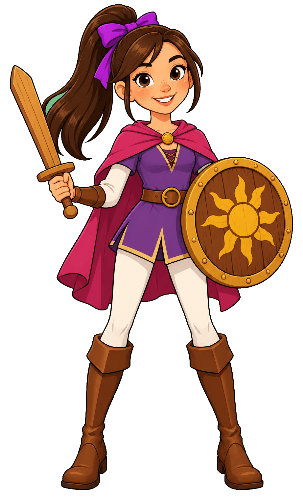
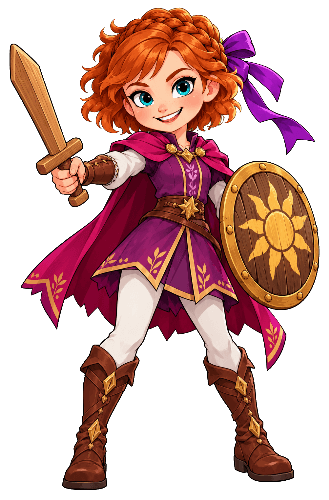
wordwarriors/113_promote_anna_bluerilla: Promote good Anna and Bluerilla, and face-card rounds for both
Squashed by conductor from conductor/113_promote_anna_bluerilla (2 commit(s)):
- Promote good Anna (pick 1) and Bluerilla (pick 5); Bluerilla is a living gorilla, not a robot
- Face-card round for good Anna and Bluerilla (picker art_alts_113_faces); CLAUDE.md: an art round never asks which candidate to promote

diff --git a/content/art/prompts.ts b/content/art/prompts.ts
@@ -64,7 +64,7 @@ const BANK_056 = ['egg', 'bell', 'doll', 'tap', 'glass', 'sink', 'king', 'ring',
  */
 // Item 111: Julia's outfits beside the new allies and Seraphina's pink dragon, no green of their own.
 const ART_111 = ['keeper', 'snow', 'explorer'].flatMap((o) => [`char_julia_${o}`, `face_julia_${o}`]).concat('minion_pink_dragon');
-const NO_GREEN = new Set([...ART_111, ...BANK_037, ...BANK_040, ...BANK_054, ...BANK_056, ...FAMILY_ART, ...TIAMAT_ART, ...ITEM_025, 'char_julia_chef', 'face_julia_chef', 'prop_silver_sword', ...GLOWING_ITEMS, 'item_bubble_bath', 'item_cleanup_van', 'char_rilla_evil', 'char_rilla_good', 'char_elsa_good', 'pic_mice', 'pic_net', 'prop_magic_circle', 'prop_ice_block', 'prop_word_machine', 'prop_machine_tile', 'prop_rune_altar', 'prop_rune_stone', ...ENDING_PROPS, ...SCAR_ART, ...FIGHT_PROPS]);
+const NO_GREEN = new Set([...ART_111, ...BANK_037, ...BANK_040, ...BANK_054, ...BANK_056, ...FAMILY_ART, ...TIAMAT_ART, ...ITEM_025, 'char_julia_chef', 'face_julia_chef', 'prop_silver_sword', ...GLOWING_ITEMS, 'item_bubble_bath', 'item_cleanup_van', 'char_rilla_evil', 'char_rilla_good', 'face_rilla', 'char_elsa_good', 'pic_mice', 'pic_net', 'prop_magic_circle', 'prop_ice_block', 'prop_word_machine', 'prop_machine_tile', 'prop_rune_altar', 'prop_rune_stone', ...ENDING_PROPS, ...SCAR_ART, ...FIGHT_PROPS]);
 
 /**
  * Sprites in dark green of their own (item 049): keying takes out only the
@@ -145,7 +145,7 @@ export const PICK_NOTES: Record<string, string> = {
   prop_fight_finish_flag: 'The sky race\'s finish line (item 031), swept in at the end of each race. `current` is candidate 1, Matt\'s pick (item 034): the slimmer gold posts with jewelled tops. 2 was item 031\'s promotion; `0` is the painted placeholder.',
   prop_fight_trophy: 'Over the winner of a race or a cook-off (item 031). `current` is candidate 3, Matt\'s pick (item 034): the ornate cup with a gold filigree crest round its ruby. 1 was item 031\'s promotion; `0` is the painted placeholder.',
   prop_fight_cook_station: 'Each side\'s station in the cook-off (item 031); the dish is stacked on its counter top. `current` is candidate 2, promoted by item 031: the clearest counter top. `0` is the painted placeholder.',
-  char_rilla_good: "Bluerilla (item 110): Rilla's good side drawn from Julia's plush gorilla (Matt's photo attached to each prompt). `current` is the old pastel-blue robot gorilla. Brief `110_bluerilla_plush` keeps the toy's soft stitched look, arms open for a hug; `110_bluerilla_furry` makes him a living shaggy gorilla, waving.",
+  face_rilla: "Bluerilla's face card (item 113), drawn with his promoted full body attached (`art:alts --ref=art-originals/char_rilla_good.png`) so face and fur match it. `current` is the old pastel-blue robot's. Only the good side shows a face card (`Portrait`: none for an evil speaker), so EvilRilla needs none of his own.",
   char_scar_good: "Scar's redesign (items 028/030): a tiny gold mech, a little shorter than Julia. `current` is candidate 2, promoted by item 030 and kept by Matt (item 034): the biggest head and shortest legs (the smallest-reading), and a smiling visor. `0` is the old design.",
   char_scar_evil: "`current` is candidate 1, Matt's pick (item 034): a round black helmet with smoking exhaust stacks, a scowling red visor, blaster thrust forward and fist clenched. 3 was item 030's promotion; `0` is the old design.",
   face_scar: "`current` is candidate 2, Matt's pick (item 034): a laughing visor with his smiling mouth showing beneath it, blue jets behind. 4 was item 030's promotion; `0` is the old design.",
@@ -188,7 +188,7 @@ export const PICK_NOTES: Record<string, string> = {
   char_ellie_good: "`current` is candidate 0, the original bubble-wand Ellie, Matt's pick (item 016); she fights with bubbles and one sword move, and the game draws her swords round her when she uses it. 1 to 3 are item 009's bubble-wand candidates; 4 to 6 (item 014) summon silver swords.",
   char_julia_chef: 'Julia in her chef form (content/battle/forms.ts): every scene after she wakes uses it when Dada Jason is the ally. `current` is candidate 3, promoted by item 012 (closest face and fringe to her other art, pink shoes like hers).',
   face_julia_chef: "New id (item 016): chef Julia's name-free face card, the picture for reading JULIA in a chef episode. `current` is candidate 2, promoted by item 016 (hat, fringe and smile closest to char_julia_chef); 1 and 3 are as good, with a taller hat. `0` is the painted placeholder.",
-  char_anna_good: "Good Anna redrawn as Evil Anna's copper-curls design turned good (item 112; Evil Anna is final, item 109): each candidate is drawn with Evil Anna's art attached (`art:alts --ref`), so the face, hair and build match hers. `current` is item 009's dark-ponytail design. A pick writes its brief into her roster look, and her face card follows in its own round.",
+  face_anna: "Good Anna's face card redrawn to match her promoted copper-curls full body (item 113; drawn with it attached, `art:alts --ref=art-originals/char_anna_good.png`). `current` is item 009's dark-ponytail card; `0` the oldest original, from before item 009.",
   room_bedroom_julia: 'Redrawn with no loose toys of its own: the first one painted a teddy and a rocket that doubled the toys the game puts on the floor.',
   decal_rilla_footprint: 'Redrawn as one giant robot-gorilla footprint: the earlier try still read as bare human feet.',
   prop_word_machine: "The word machine (item 026): the game puts the picture in its round window and draws its own letter panel over the blank lower panel. `current` is candidate 3, Matt's pick (item 032): a round glass dome over a cream panel, with a crank on the side; `WINDOW` / `PANEL` in src/scenes/WordMachine.ts are fitted to it (fractions of the image), so a different pick needs them refitted. 2 is item 026's promotion; 0 is the painted placeholder.",
@@ -583,8 +583,9 @@ const PICTURES: Record<string, string> = {
 const HAND: Record<string, string> = {
   char_rilla_evil:
     'EvilRilla, the villain: a giant, menacing-but-silly gorilla robot, chrome and red armour plates, huge rocket fists, glowing red eyes, a bandolier of banana peels across the chest. Mischievous grin rather than frightening. Standing, facing the viewer.',
+  // Item 113: Matt's pick 5 from item 110's round (brief 110_bluerilla_furry), drawn with Julia's plush attached (REFS).
   char_rilla_good:
-    'Rilla, the good version: the same giant gorilla robot, friendly and gentle, pastel blue armour plates, soft glowing eyes and a big smile, arms open wide for a hug. Standing, facing the viewer.',
+    "Bluerilla, the good version: a big, gentle cartoon gorilla hero modelled on Julia's plush gorilla, a kind, huggable giant. Shaggy deep navy-blue fur all over, a large pale-blue face with a big friendly rounded muzzle and a happy smile, small dark kind eyes, a big round pale-blue chest and belly patch, very long navy arms with big pale-blue hands, and pale-blue feet. Round and chunky like the toy, all soft curves, NOT a robot: no armour, no metal, no glowing eyes. Standing tall, facing the viewer, one big hand waving hello and a warm grin.",
   char_elsa_good:
     // Four wordings with pale hair and an icy-blue snowflake gown were refused by
     // the image tool's safety system (2026-10-18), most likely as too near the film
@@ -634,7 +635,7 @@ const HAND: Record<string, string> = {
     'Wind-up Mice: a round open tin box with three cute grey clockwork toy mice spilling out of it, each with a little silver wind-up key in its back, pink ears and curly tails, a few golden sparkles around them.',
 };
 
-const EMPTY_HANDED_FACES = new Set(['face_ellie', 'face_anna']);
+const EMPTY_HANDED_FACES = new Set(['face_ellie', 'face_anna', 'face_rilla']);
 
 const strip = (s: string) => s.replace(/,?\s*transparent background\.?/gi, '.').replace(/\.\s*\./g, '.').trim();
 

diff --git a/content/battle/roster.ts b/content/battle/roster.ts
@@ -616,10 +616,11 @@ export const ROSTER: CharacterSpec[] = [
     id: 'anna',
     description: 'The ice sorceress\'s brave little sister: a sword-and-shield adventurer who never gives up.',
     arena: 'ice',
-    // Split look (Matt's picks, item 011): good Anna and her face card are the
-    // item 009 redesign (dark ponytail, plum and magenta).
+    // Good Anna is Evil Anna's copper curls turned good (Matt's pick, item 112's
+    // round, promoted by item 113): brief 112_good_anna_plum. Her face card
+    // still shows item 009's dark ponytail until item 113's face round is picked.
     good: {
-      displayName: 'Anna', trail: { tint: [0xffb703, 0xe63946], shape: 'spark' }, look: 'a tall, sporty young adventurer of original design with long straight dark-brown hair in one high swinging ponytail tied with a big purple ribbon, a few freckles, a plum-purple tunic with a short magenta cape, white leggings and tall brown boots, a round wooden shield with a golden sun painted on it and a wooden practice sword',
+      displayName: 'Anna', trail: { tint: [0xffb703, 0xe63946], shape: 'spark' }, look: 'a freckled young adventurer of original design with a short, curly copper bob and a braid across the top of her head, tied with a big purple ribbon, bright blue eyes and warm peachy skin with rosy cheeks, a big brave happy grin, a plum-purple tunic with a brown belt, a short magenta cape, white leggings and tall brown boots, a round wooden shield with a golden sun painted on it and a wooden practice sword',
       palette: [0xe63946, 0x2a9d8f], glyph: '🛡', style: 'twirl', speed: 230, size: 1, hp: 110,
       abilities: [
         ab('shield_bash', 'Shield Bash', 'dash', 4, 0xe63946, 2, { shout: true, words: ['bam', 'ram', 'run'] }),
@@ -1241,29 +1242,34 @@ export const ROSTER: CharacterSpec[] = [
   },
   {
     id: 'rilla',
-    description: 'A giant gorilla robot: as a friend all bananas and big hugs, as a villain all rocket fists and an appetite for cars.',
+    // Item 113 (Matt): the good side is Bluerilla, Julia's plush gorilla come
+    // to life, a big kind living gorilla (Matt's pick from item 110's round,
+    // brief 110_bluerilla_furry). The villain stays EvilRilla, the robot, and
+    // is RILLA by his bare name (`bareName`).
+    description: 'Bluerilla, Julia\'s big blue plush gorilla come to life: as a friend all bananas and big furry hugs. As a villain he is EvilRilla, a gorilla robot all rocket fists and an appetite for cars.',
     arena: 'street',
     good: {
-      displayName: 'Rilla', trail: { tint: [0xffe14a, 0x8a6a4a], shape: 'square' }, look: 'a friendly, gentle giant gorilla robot with pastel blue armour plates, soft glowing eyes and a big smile, arms open wide for a hug',
-      palette: [0x8a6a4a, 0xffe14a], glyph: '🦍', style: 'stomp', speed: 110, size: 1.4, hp: 160,
+      displayName: 'Bluerilla', trail: { tint: [0xffe14a, 0x2a4aa8], shape: 'square' }, look: 'a big, gentle cartoon gorilla modelled on a plush toy, a kind, huggable giant: shaggy deep navy-blue fur all over, a large pale-blue face with a big friendly rounded muzzle and a happy smile, small dark kind eyes, a big round pale-blue chest and belly patch, very long navy arms with big pale-blue hands, and pale-blue feet, round and chunky like the toy, all soft curves, NOT a robot: no armour, no metal, no glowing eyes, waving hello with one big hand',
+      palette: [0x1f3a8a, 0xa8d0ff], glyph: '🦍', style: 'stomp', speed: 110, size: 1.4, hp: 160,
       abilities: [
         ab('banana_toss', 'Banana Toss', 'bolt', 2.4, 0xffe14a, 1, { count: 3, glyph: '🍌', words: ['pop', 'top'] }),
-        ab('rocket_punch', 'Rocket Punch', 'bolt', 3, 0xff6a3a, 2, { glyph: '🚀', homing: true, shout: true, words: ['pow', 'jet'] }),
+        ab('vine_swing', 'Vine Swing', 'dash', 4, 0x3a9a4a, 2, { shout: true, words: ['jump', 'run'] }),
         ab('chest_drum', 'Gorilla Thump', 'slam', 6, 0x8a6a4a, 3, { shout: true, words: ['bam', 'big'] }),
         ab('gorilla_hug', 'Gorilla Hug', 'heal', 10, 0xffe14a, 1, { words: ['hug', 'tug'] }),
       ],
-      ultimate: ult('banana_bonanza', 'Banana Bonanza', 'rain',0xffe14a, 3, { count: 32, glyph: '🍌', color2: 0x8a6a4a }),
+      ultimate: ult('banana_bonanza', 'Banana Bonanza', 'rain',0xffe14a, 3, { count: 32, glyph: '🍌', color2: 0x2a4aa8 }),
       taunts: [
         { key: 'hugs', text: 'Hugs for everyone!' },
         { key: 'bananas', text: 'Here come the bananas!' },
         { key: 'gentle', text: 'I am a gentle giant!' },
         { key: 'power', text: 'Gorilla power!' },
+        { key: 'fluffy', text: 'Soft and fluffy, and super strong!' },
         { key: 'snack', text: 'Who wants a banana?' },
         { key: 'stomp', text: 'Watch my giant feet!' },
       ],
     },
     evil: {
-      displayName: 'EvilRilla', trail: { tint: [0xff3a1a, 0x3a2a1a], shape: 'smoke' }, look: 'a giant, menacing-but-silly gorilla robot with chrome and red armour plates, huge rocket fists, glowing red eyes and a bandolier of banana peels across the chest',
+      displayName: 'EvilRilla', bareName: 'Rilla', trail: { tint: [0xff3a1a, 0x3a2a1a], shape: 'smoke' }, look: 'a giant, menacing-but-silly gorilla robot with chrome and red armour plates, huge rocket fists, glowing red eyes and a bandolier of banana peels across the chest',
       palette: [0x3a2a1a, 0xff3a1a], glyph: '🤖', style: 'stomp', speed: 70, size: 1.8, hp: 230,
       abilities: [
         ab('rocket_fists', 'Rocket Fists', 'bolt', 3, 0xff3a1a, 2, { count: 2, glyph: '🚀', homing: true }),
@@ -1284,13 +1290,13 @@ export const ROSTER: CharacterSpec[] = [
     reformed: {
       sorry: [
         { key: 'banana', text: 'Sorry, do you want a banana?' },
-        { key: 'car', text: 'Sorry, Rilla will not eat the car.' },
+        { key: 'car', text: 'Sorry, Bluerilla will not eat the car.' },
         { key: 'hungry', text: 'Sorry, so sorry, I was hungry!' },
       ],
       ending: [
         { key: 'hugs', text: 'I have gorilla hugs for everybody!' },
         { key: 'bananas', text: 'Bananas for the whole team!' },
-        { key: 'happy', text: 'Rilla is happy now!' },
+        { key: 'happy', text: 'Bluerilla is happy now!' },
       ],
     },
     counter: {
@@ -1650,6 +1656,11 @@ export const ROSTER: CharacterSpec[] = [
 ];
 
 export const CHARACTER_BY_ID: Record<string, CharacterSpec> = Object.fromEntries(ROSTER.map((c) => [c.id, c]));
+
+/** The villain's bare name, once known (item 038): `evil.bareName` where set, else the good side's name. */
+export function villainName(c: CharacterSpec): { displayName: string; sayName?: string } {
+  return c.evil.bareName ? { displayName: c.evil.bareName } : c.good;
+}
 
 /** Whose form `id` is: the person for a form (`dada_matt_lifter` → `dada_matt`), else `id` itself. */
 export function personOf(id: string): string {

diff --git a/content/phonics/sentences.ts b/content/phonics/sentences.ts
@@ -20,7 +20,7 @@
  * unit tests read it under Node.
  */
 
-import { CHARACTER_BY_ID, PERSONS, ROSTER, personOf } from '../battle/roster.js';
+import { CHARACTER_BY_ID, PERSONS, ROSTER, personOf, villainName } from '../battle/roster.js';
 import { sentenceLine } from '../voice/ids.js';
 import { THINGS } from './bank.js';
 import { EFFECT_BY_WORD, type WordEffect } from './effects.js';
@@ -198,10 +198,12 @@ function frameName(frame: Frame, fill: Fill): { slot: NameSlot; id: string } | n
 /**
  * A name as shown in a sentence: the bare character name in every slot (item
  * 038). The villain is still drawn evil; EVIL only made a long sentence longer
- * (JORMUNGANDR RUNS FROM THE FAN, not EVIL JORMUNGANDR ...).
+ * (JORMUNGANDR RUNS FROM THE FAN, not EVIL JORMUNGANDR ...). The villain slot
+ * reads `villainName` (RILLA, whose good side is BLUERILLA: item 113).
  */
-function nameFor(id: string): { show: string; say: string } {
-  const f = CHARACTER_BY_ID[id]!.good;
+function nameFor(id: string, slot: NameSlot): { show: string; say: string } {
+  const c = CHARACTER_BY_ID[id]!;
+  const f = slot === 'villain' ? villainName(c) : c.good;
   return { show: f.displayName, say: f.sayName ?? f.displayName };
 }
 
@@ -209,7 +211,7 @@ export function sentence(frameId: string, fill: Fill, key: string): Sentence {
   const frame = FRAME_BY_ID[frameId]!;
   const name = frameName(frame, fill);
   const text = frame.text
-    .replace(/\{(villain|helper|hero)\}/, name ? nameFor(name.id).show.toUpperCase() : '')
+    .replace(/\{(villain|helper|hero)\}/, name ? nameFor(name.id, name.slot).show.toUpperCase() : '')
     .replace('{x}', key.toUpperCase());
   // A form reads and sounds like its person (DADA MATT for every Matt), so it shares the person's prefix line.
   return { frame: frameId, tokens: text.split(/\s+/).filter(Boolean), key, prefixLine: sentenceLine(frameId, name ? personOf(name.id) : null) };
@@ -228,7 +230,7 @@ export function allPrefixes(): { id: string; text: string; say?: string }[] {
     const slot = slotOf(frame);
     const ids = slot ? PERSONS.map((c) => c.id) : [null];
     for (const id of ids) {
-      const name = slot && id ? nameFor(id) : null;
+      const name = slot && id ? nameFor(id, slot) : null;
       // Spoken in sentence case, trailing off where the key word will go.
       const show = words.map((w, i) => (w.startsWith('{') ? name!.show : i === 0 ? cap(w) : w.toLowerCase())).join(' ');
       const say = words.map((w, i) => (w.startsWith('{') ? name!.say : i === 0 ? cap(w) : w.toLowerCase())).join(' ');
@@ -245,7 +247,7 @@ export function allFrameTokens(): string[] {
     for (const w of frame.text.split(/\s+/)) {
       if (w === '{x}') continue;
       if (SLOTS.some((s) => w === `{${s}}`)) {
-        for (const c of ROSTER) for (const t of nameFor(c.id).show.split(/\s+/)) set.add(tokenWord(t));
+        for (const c of ROSTER) for (const s of SLOTS) for (const t of nameFor(c.id, s).show.split(/\s+/)) set.add(tokenWord(t));
       } else set.add(tokenWord(w));
     }
   }

diff --git a/tools/voice/compose.ts b/tools/voice/compose.ts
@@ -14,7 +14,7 @@
 
 import { writeFile } from 'node:fs/promises';
 
-import { CHARACTER_BY_ID, MOVE_WORDS, PERSONS, ROSTER, abilityCallout, personOf } from '../../content/battle/roster.js';
+import { CHARACTER_BY_ID, MOVE_WORDS, PERSONS, ROSTER, abilityCallout, personOf, villainName } from '../../content/battle/roster.js';
 import { STORIES, storyLines } from '../../content/battle/stories/index.js';
 import { ENDINGS } from '../../content/house/endings.js';
 import { HOME_QUEST, QUESTS } from '../../content/house/quests.js';
@@ -60,10 +60,13 @@ import { CHARGE_GESTURES, CORE_LINES, HERO_LINES, MOVE_LINES, NARRATOR_LINES, VI
 import { isMain, LINES_FILE } from '../shared.js';
 import type { LineSpec } from './types.js';
 
+/** What a name placeholder reads: shown and, where edge-tts needs it, spoken. */
+type Named = Pick<FighterSpec, 'displayName' | 'sayName'>;
+
 interface Fill {
-  hero?: FighterSpec;
-  villain?: FighterSpec;
-  helper?: FighterSpec;
+  hero?: Named;
+  villain?: Named;
+  helper?: Named;
   item?: string;
   itemSay?: string;
   word?: string;
@@ -111,7 +114,7 @@ function fill(t: Template, f: Fill): { text: string; say?: string } {
 function tokenForms(): Map<string, { show: string; say?: string }> {
   const forms = new Map<string, { show: string; say?: string }>();
   for (const c of ROSTER) {
-    for (const f of [c.good, c.evil]) {
+    for (const f of [c.good, c.evil, villainName(c)]) {
       const shown = f.displayName.split(/\s+/);
       // sayName has the same word count as displayName, so words pair by index.
       const said = f.sayName?.split(/\s+/);
@@ -294,7 +297,7 @@ export function composeLines(): LineSpec[] {
           id: narratorLine(n, villainKey(t.key, villain.id)),
           speaker: n,
           group: g,
-          ...fill(t, { villain: t.key === 'alarm_villain' ? villain.evil : villain.good, item: villain.counter.name, ...(villain.counter.sayName ? { itemSay: villain.counter.sayName } : {}) }),
+          ...fill(t, { villain: t.key === 'alarm_villain' ? villain.evil : villainName(villain), item: villain.counter.name, ...(villain.counter.sayName ? { itemSay: villain.counter.sayName } : {}) }),
         });
       }
     }

diff --git a/content/house/scenes.ts b/content/house/scenes.ts
@@ -337,15 +337,16 @@ export const HUB_SCENES: Record<string, HubStory[]> = {
   ],
   rilla: [
     S('🍌', [
-      'Rilla is strong, and Rilla likes to share, so here is my power banana!',
+      'Bluerilla is strong, and Bluerilla likes to share, so here is my power banana!',
       'Eat the banana, and you get a mighty power.',
       'Then thump your tummy, and shout...',
     ], SPOT('to get the power'), 'Now you are gorilla strong, let\'s look around!'),
-    S('🦾', [
-      'My robot arms are very strong, but my best trick is a word.',
-      'I am giving it to you, because you are my friend.',
+    // Item 113: Bluerilla is a living plush gorilla, not a robot.
+    S('💪', [
+      'My long furry arms are very strong, but my best trick is a word.',
+      'I am giving it to you, with a soft fluffy cuddle, because you are my friend.',
       'Put your fists up, and shout...',
-    ], SPOT('to get the trick'), 'Now you are strong like Rilla, let\'s look around!'),
+    ], SPOT('to get the trick'), 'Now you are strong like Bluerilla, let\'s look around!'),
   ],
 };
 

diff --git a/content/battle/types.ts b/content/battle/types.ts
@@ -125,6 +125,12 @@ export interface FighterSpec {
   displayName: string;
   /** For edge-tts, when the display name mispronounces. Same word count. */
   sayName?: string;
+  /**
+   * Evil side only: the villain's bare name (item 038's sentences and the
+   * narrator's villain lines), where it is not the good side's name (item 113:
+   * EvilRilla is RILLA, his good side Bluerilla). See `villainName`.
+   */
+  bareName?: string;
   /** One line for docs/art.md and the AI art prompt. */
   look: string;
   /** Card colours: main, accent. */

diff --git a/docs/art.md b/docs/art.md
@@ -27,7 +27,7 @@ Word pictures must contain no text or letters: the word is the reading answer.
 | `char_dada_jason_evil` | 200×250 | Evil Dada Jason: a fun, mischievous villain chef for a children's game, NOT scary: the same big, sturdy, round-faced dad as the good chef, warm light-brown skin, very short dark curly hair receding at the front, his black browline glasses, his own short dark goatee beard flecked with grey, a tiny hoop earring and a sly, cheeky grin. NO moustache, NO whiskers, NO twirly or curled facial hair: his own face, just as in the photo. He wears a black chef's jacket with purple buttons and purple piping, a black apron and a floppy dark-purple chef's hat: a black-and-purple palette with glowing purple accents, no green anywhere. He holds up a giant ladle dripping with glowing purple sauce, a few purple drips splashing. A clear, simple silhouette that still reads at small sprite size. Full body, facing the viewer, cheerful cartoon style for a 4-year-old, villain version: darker palette, mischievous rather than frightening. Transparent background. |
 | `char_elsa_good` | 200×250 | Elsa: a cheerful winter queen of original design: rosy cheeks and freckles, long pale silver hair, a flowing white-and-gold gown embroidered with golden snowflakes, a little golden crown and a fluffy white fur-trimmed cape, conjuring golden-white sparkles. Full body, facing the viewer, cheerful cartoon style for a 4-year-old. Transparent background. |
 | `char_elsa_evil` | 200×250 | Evil Elsa: a sulky frost witch of original design with a short spiky silver pixie cut and freckles, a tall jagged black-and-gold crown, a knee-length tunic of dark violet crystal plates over black leggings, black boots, a tattered gold-edged cape, holding a staff topped with a purple crystal. Full body, facing the viewer, cheerful cartoon style for a 4-year-old, villain version: darker palette, mischievous rather than frightening. Transparent background. |
-| `char_anna_good` | 200×250 | Anna: a tall, sporty young adventurer of original design with long straight dark-brown hair in one high swinging ponytail tied with a big purple ribbon, a few freckles, a plum-purple tunic with a short magenta cape, white leggings and tall brown boots, a round wooden shield with a golden sun painted on it and a wooden practice sword. Full body, facing the viewer, cheerful cartoon style for a 4-year-old. Transparent background. |
+| `char_anna_good` | 200×250 | Anna: a freckled young adventurer of original design with a short, curly copper bob and a braid across the top of her head, tied with a big purple ribbon, bright blue eyes and warm peachy skin with rosy cheeks, a big brave happy grin, a plum-purple tunic with a brown belt, a short magenta cape, white leggings and tall brown boots, a round wooden shield with a golden sun painted on it and a wooden practice sword. Full body, facing the viewer, cheerful cartoon style for a 4-year-old. Transparent background. |
 | `char_anna_evil` | 200×250 | Evil Anna: a freckled young adventurer of original design under a frost curse, with a short curly copper bob: frosty pale-blue skin, icicles in her curly bob, a grey-blue tunic, a cracked ice shield, a cross scowl. Full body, facing the viewer, cheerful cartoon style for a 4-year-old, villain version: darker palette, mischievous rather than frightening. Transparent background. |
 | `char_jasmine_good` | 200×250 | Jasmine: a desert princess of original design with short bouncy black curls and a gold circlet, a coral-pink and saffron-orange tunic over baggy saffron trousers, sitting cross-legged on a red-and-gold patterned flying carpet. Full body, facing the viewer, cheerful cartoon style for a 4-year-old. Transparent background. |
 | `char_jasmine_evil` | 200×250 | Evil Jasmine: the same curly-haired desert princess in dark plum and black robes with a dented gold circlet, sitting on a carpet of black smoke, a little sandstorm swirling behind her. Full body, facing the viewer, cheerful cartoon style for a 4-year-old, villain version: darker palette, mischievous rather than frightening. Transparent background. |
@@ -45,7 +45,7 @@ Word pictures must contain no text or letters: the word is the reading answer.
 | `char_moriarty_evil` | 200×250 | Evil Moriarty: a sly trickster in a black coat and top hat, a grin full of secrets, cards floating around him. Full body, facing the viewer, cheerful cartoon style for a 4-year-old, villain version: darker palette, mischievous rather than frightening. Transparent background. |
 | `char_bavmorda_good` | 200×250 | Bavmorda: a kindly old witch with a crooked hat full of flowers, a staff with a glowing pink gem. Full body, facing the viewer, cheerful cartoon style for a 4-year-old. Transparent background. |
 | `char_bavmorda_evil` | 200×250 | Evil Bavmorda: a tall dark witch queen with a horned crown, a black staff with a green flame, skeletons at her feet. Full body, facing the viewer, cheerful cartoon style for a 4-year-old, villain version: darker palette, mischievous rather than frightening. Transparent background. |
-| `char_rilla_good` | 200×250 | Rilla: a friendly, gentle giant gorilla robot with pastel blue armour plates, soft glowing eyes and a big smile, arms open wide for a hug. Full body, facing the viewer, cheerful cartoon style for a 4-year-old. Transparent background. |
+| `char_rilla_good` | 200×250 | Bluerilla: a big, gentle cartoon gorilla modelled on a plush toy, a kind, huggable giant: shaggy deep navy-blue fur all over, a large pale-blue face with a big friendly rounded muzzle and a happy smile, small dark kind eyes, a big round pale-blue chest and belly patch, very long navy arms with big pale-blue hands, and pale-blue feet, round and chunky like the toy, all soft curves, NOT a robot: no armour, no metal, no glowing eyes, waving hello with one big hand. Full body, facing the viewer, cheerful cartoon style for a 4-year-old. Transparent background. |
 | `char_rilla_evil` | 200×250 | EvilRilla: a giant, menacing-but-silly gorilla robot with chrome and red armour plates, huge rocket fists, glowing red eyes and a bandolier of banana peels across the chest. Full body, facing the viewer, cheerful cartoon style for a 4-year-old, villain version: darker palette, mischievous rather than frightening. Transparent background. |
 | `char_dada_matt_lifter_good` | 200×250 | Dada Matt: a tall, strong, broad-shouldered dad, fit but not bulky (not a bodybuilder): fair skin, short light-brown hair thinning on top with a high hairline, a full short reddish-brown beard, blue eyes, no glasses, a big warm smile, in a normal deep-blue short-sleeved gym T-shirt (a rich royal-to-navy blue) with a gold star on the chest (sleeves, not a singlet or a tank top), dark gym shorts, a black lifting belt, wristbands and blue sneakers, holding one blue-and-gold dumbbell of ordinary gym size low in one hand at his side. Bright, sporty and friendly. Full body, facing the viewer, cheerful cartoon style for a 4-year-old. Transparent background. |
 | `char_dada_matt_lifter_evil` | 200×250 | Evil Dada Matt: a tall, strong, broad-shouldered dad, fit but not bulky (not a bodybuilder): fair skin, short light-brown hair thinning on top with a high hairline, a full short reddish-brown beard, blue eyes, no glasses, a big warm smile, with a smug show-off grin, the same build and outfit in his evil palette: a normal black short-sleeved gym T-shirt with a purple lightning bolt (sleeves, not a singlet or a tank top), dark purple gym shorts, a spiky black lifting belt, purple wristbands and sneakers, holding up one black dumbbell of ordinary gym size crackling with purple sparks. Full body, facing the viewer, cheerful cartoon style for a 4-year-old, villain version: darker palette, mischievous rather than frightening. Transparent background. |
@@ -63,7 +63,7 @@ Word pictures must contain no text or letters: the word is the reading answer.
 | `face_dada_matt` | 200×200 | Dada Matt's face, a friendly head-and-shoulders portrait of a tall, beefy, broad-shouldered bodybuilder dad: fair skin, short light-brown hair thinning on top with a high hairline, a full short reddish-brown beard, blue eyes, no glasses, a big warm smile, in chunky deep-blue-and-steel builder armour (a rich royal-to-navy blue) with a tool belt, holding a huge friendly hammer. Bright, sturdy and friendly. NO TEXT OR NAME anywhere: it is the picture for reading the name. |
 | `face_dada_jason` | 200×200 | Dada Jason's face, a friendly head-and-shoulders portrait of a big, sturdy, round-faced chef dad: warm light-brown skin, very short dark curly hair receding at the front, black browline glasses, a short dark goatee beard flecked with grey, a tiny hoop earring, a big laughing smile, in crisp white chef's whites trimmed in deep forest green (a dark, rich pine green, not lime or bright grass green): a forest-green collar, cuffs and buttons, a forest-green apron, a tall white chef's hat with a forest-green band and a forest-green neckerchief, holding a giant whisk. Bright, warm and friendly. NO TEXT OR NAME anywhere: it is the picture for reading the name. |
 | `face_elsa` | 200×200 | Elsa's face, a friendly head-and-shoulders portrait of a cheerful winter queen of original design: rosy cheeks and freckles, long pale silver hair, a flowing white-and-gold gown embroidered with golden snowflakes, a little golden crown and a fluffy white fur-trimmed cape, conjuring golden-white sparkles. NO TEXT OR NAME anywhere: it is the picture for reading the name. |
-| `face_anna` | 200×200 | Anna's face, a friendly head-and-shoulders portrait of a tall, sporty young adventurer of original design with long straight dark-brown hair in one high swinging ponytail tied with a big purple ribbon, a few freckles, a plum-purple tunic with a short magenta cape, white leggings and tall brown boots, a round wooden shield with a golden sun painted on it and a wooden practice sword. NO TEXT OR NAME anywhere: it is the picture for reading the name. |
+| `face_anna` | 200×200 | Anna's face, a friendly head-and-shoulders portrait of a freckled young adventurer of original design with a short, curly copper bob and a braid across the top of her head, tied with a big purple ribbon, bright blue eyes and warm peachy skin with rosy cheeks, a big brave happy grin, a plum-purple tunic with a brown belt, a short magenta cape, white leggings and tall brown boots, a round wooden shield with a golden sun painted on it and a wooden practice sword. NO TEXT OR NAME anywhere: it is the picture for reading the name. |
 | `face_jasmine` | 200×200 | Jasmine's face, a friendly head-and-shoulders portrait of a desert princess of original design with short bouncy black curls and a gold circlet, a coral-pink and saffron-orange tunic over baggy saffron trousers, sitting cross-legged on a red-and-gold patterned flying carpet. NO TEXT OR NAME anywhere: it is the picture for reading the name. |
 | `face_ozymandias` | 200×200 | Ozymandias's face, a friendly head-and-shoulders portrait of a friendly old pharaoh with a golden mask pushed up on his head, a staff of sand. NO TEXT OR NAME anywhere: it is the picture for reading the name. |
 | `face_jormungandr` | 200×200 | Jormungandr's face, a friendly head-and-shoulders portrait of a huge friendly green sea serpent with kind yellow eyes, wearing a tiny crown. NO TEXT OR NAME anywhere: it is the picture for reading the name. |
@@ -72,7 +72,7 @@ Word pictures must contain no text or letters: the word is the reading answer.
 | `face_scar` | 200×200 | Scar's face, a friendly head-and-shoulders portrait of a tiny, cool little robot, shorter than a four-year-old: a chunky mini mech in shiny gold armour with black joints, a big round gold helmet with two little fins, round gold shoulder pads, a wide glowing cyan visor showing happy curved eyes, with a little scratch across one corner, a round glowing orange power core in the middle of his chest, short sturdy legs with big gold boots, his right arm a small blaster cannon and little rocket jets on his back, standing tall and proud with a brave, cheerful look. NO TEXT OR NAME anywhere: it is the picture for reading the name. |
 | `face_moriarty` | 200×200 | Moriarty's face, a friendly head-and-shoulders portrait of a lanky magician in a green suit and top hat, shuffling glowing cards, winking. NO TEXT OR NAME anywhere: it is the picture for reading the name. |
 | `face_bavmorda` | 200×200 | Bavmorda's face, a friendly head-and-shoulders portrait of a kindly old witch with a crooked hat full of flowers, a staff with a glowing pink gem. NO TEXT OR NAME anywhere: it is the picture for reading the name. |
-| `face_rilla` | 200×200 | Rilla's face, a friendly head-and-shoulders portrait of a friendly, gentle giant gorilla robot with pastel blue armour plates, soft glowing eyes and a big smile, arms open wide for a hug. NO TEXT OR NAME anywhere: it is the picture for reading the name. |
+| `face_rilla` | 200×200 | Bluerilla's face, a friendly head-and-shoulders portrait of a big, gentle cartoon gorilla modelled on a plush toy, a kind, huggable giant: shaggy deep navy-blue fur all over, a large pale-blue face with a big friendly rounded muzzle and a happy smile, small dark kind eyes, a big round pale-blue chest and belly patch, very long navy arms with big pale-blue hands, and pale-blue feet, round and chunky like the toy, all soft curves, NOT a robot: no armour, no metal, no glowing eyes, waving hello with one big hand. NO TEXT OR NAME anywhere: it is the picture for reading the name. |
 | `face_dada_matt_lifter` | 200×200 | Dada Matt's face, a friendly head-and-shoulders portrait of a tall, strong, broad-shouldered dad, fit but not bulky (not a bodybuilder): fair skin, short light-brown hair thinning on top with a high hairline, a full short reddish-brown beard, blue eyes, no glasses, a big warm smile, in a normal deep-blue short-sleeved gym T-shirt (a rich royal-to-navy blue) with a gold star on the chest (sleeves, not a singlet or a tank top), dark gym shorts, a black lifting belt, wristbands and blue sneakers, holding one blue-and-gold dumbbell of ordinary gym size low in one hand at his side. Bright, sporty and friendly. NO TEXT OR NAME anywhere: it is the picture for reading the name. |
 | `face_dada_matt_cyber` | 200×200 | Dada Matt's face, a friendly head-and-shoulders portrait of a tall, strong, broad-shouldered dad, fit but not bulky (not a bodybuilder): fair skin, short light-brown hair thinning on top with a high hairline, a full short reddish-brown beard, blue eyes, no glasses, a big warm smile, as a friendly, fun cyber engineer for a children's game: one big chunky glowing cyan power gauntlet on his right hand and forearm, projecting floating hologram tools above it (a glowing wrench, a little round shield and two tiny screens), round cyber goggles with cyan lenses pushed up on his forehead, and a dark navy work jacket with glowing magenta circuit lines. Kid-friendly and playful, not edgy. A clear, simple silhouette that still reads at small sprite size. No green anywhere.. NO TEXT OR NAME anywhere: it is the picture for reading the name. |
 | `face_dada_matt_blade` | 200×200 | Dada Matt's face, a friendly head-and-shoulders portrait of a tall, beefy, broad-shouldered bodybuilder dad: fair skin, short light-brown hair thinning on top with a high hairline, a full short reddish-brown beard, blue eyes, no glasses, a big warm smile, as a buff spell-blade hero: sleek blue-and-silver rune armour that shows his big arms, a flowing dark-blue cape, a glowing silver sword with blue runes along the blade in one hand and a swirl of blue arcane magic in the other. NO TEXT OR NAME anywhere: it is the picture for reading the name. |

diff --git a/README.md b/README.md
@@ -901,10 +901,11 @@ git-ignored, so a round may run as a **readonly** item beside other work. Promot
   only when Matt has chosen for that id: a later round on it numbers from 1 again, and
   an old sheet's numbers no longer exist. Then delete the round's `scratch/` sheet,
   manifest, preview folder and briefs once every id in it is decided. `alts/` holds
-  only rounds still waiting (`ls art-originals/alts/`): on 2026-10-22 item 112's
-  `char_anna_good` (six candidates from three briefs, `scratch/112_good_anna_*.txt`;
-  picker `scratch/art_alts_112_good_anna.json`). Item 109's evil Anna round is gone
-  (Matt kept `current`), as are item 009's and item 040's.
+  only rounds still waiting (`ls art-originals/alts/`): on 2026-10-22 item 113's
+  face cards, `face_anna` and `face_rilla` (picker `scratch/art_alts_113_faces.json`,
+  drawn with `--ref` on each promoted full body). Items 110's and 112's rounds are
+  gone (promoted by item 113: Bluerilla 5, good Anna 1), as are items 109's, 009's and
+  040's.
 - Corrections for an id (what an earlier image got wrong: a likeness, a prop that
   crowds a face) are `NOTES` in `content/art/prompts.ts`; they end the prompt for both
   `art:gen` and `art:alts`.

diff --git a/docs/content.md b/docs/content.md
@@ -72,7 +72,10 @@ One `CharacterSpec` in `ROSTER`:
 - `description`: one sentence, an original archetype.
 - `good` and `evil`: each a `FighterSpec`:
   - `displayName` (`"Evil Smaug"`), optional `sayName` when edge-tts mispronounces
-    (same number of words).
+    (same number of words). On `evil` only, optional `bareName`: the villain's bare
+    name in sentences and the narrator's villain lines ("Rilla is scared of the..."),
+    where it is not the good side's name (item 113: EvilRilla is Rilla, his good side
+    Bluerilla). Without it the bare name is the good side's `displayName`.
   - `look` (the art brief), `palette` `[main, accent]`, `glyph` (placeholder emoji; avoid
     Emoji 13+, Windows 10 lacks them).
   - `style`: `hover | twirl | stomp | dodge | slither | blink | fly | march`.

diff --git a/CLAUDE.md b/CLAUDE.md
@@ -131,7 +131,9 @@ commands").
 A **candidate round** (`art:alts`) changes nothing tracked, so it may run as a
 **readonly** item; a new look is a `--brief` file in `scratch/`, not an edit to
 `content/art/prompts.ts`. **Promotion** (`art:pick`) is a normal item ("for X I pick n"
-in `docs/content.md`, *Matt says X → run Y*; README, *Candidates*).
+in `docs/content.md`, *Matt says X → run Y*; README, *Candidates*). An art round never
+asks Matt which candidate to promote: it finishes with `pick:` in the report's header,
+and promotion rides a later prompt.
 
 ## Standing contract
 
